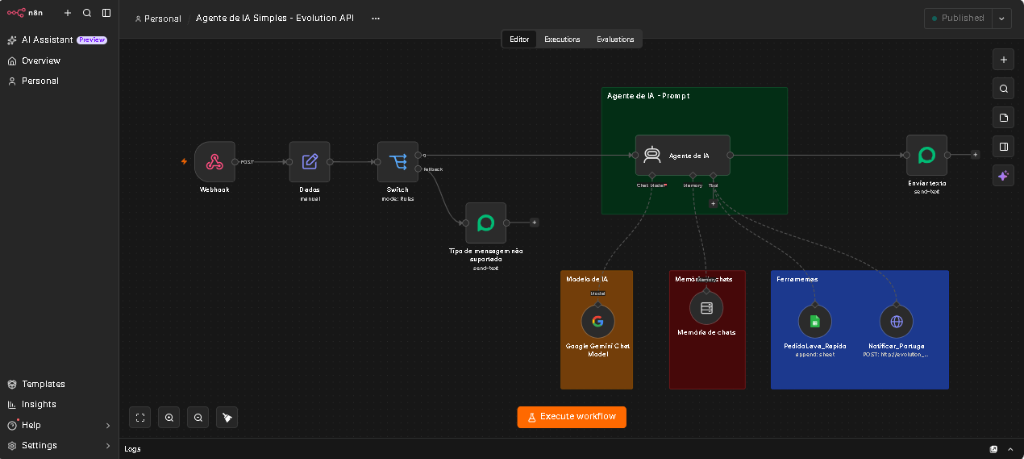
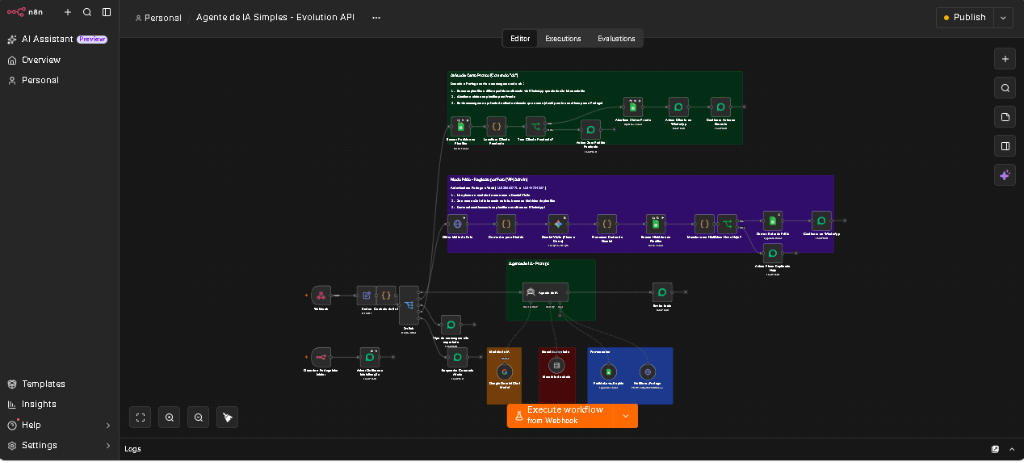
feat(portuguinha): update n8n workflow screenshot and complete production features (Vision OCR, ok command, Admin controls)

diff --git a/src/components/ProjectModal.tsx b/src/components/ProjectModal.tsx
@@ -11,7 +11,7 @@ export const ProjectModal: React.FC<ProjectModalProps> = ({ project, onClose }) 
   const isDentinho = project.id === 'dentinho';
   const isPortuguinha = project.id === 'portuguinha';
   const [activeTab, setActiveTab] = useState<'overview' | 'terminal' | 'dashboard' | 'media' | 'image' | 'workflow'>(
-    isDentinho ? 'terminal' : isPortuguinha ? 'dashboard' : 'overview'
+    isDentinho ? 'terminal' : isPortuguinha ? 'workflow' : 'overview'
   );
 
   // Estados interativos para simular o Terminal do Dentinho
@@ -133,6 +133,18 @@ export const ProjectModal: React.FC<ProjectModalProps> = ({ project, onClose }) 
         ) : isPortuguinha ? (
           <div className="flex flex-wrap items-center gap-2 mb-6 border-b border-white/[0.08] pb-4">
             <button
+              onClick={() => setActiveTab('workflow')}
+              className={`px-4 py-2.5 rounded-xl font-mono text-xs flex items-center gap-2 transition-all ${
+                activeTab === 'workflow'
+                  ? 'bg-signal text-ink-950 font-bold shadow-[0_0_15px_rgba(198,255,61,0.25)]'
+                  : 'bg-white/[0.03] text-paper/70 hover:text-paper border border-white/[0.05]'
+              }`}
+            >
+              <Workflow className="w-4 h-4" />
+              Workflow n8n & IA (4 Fluxos)
+            </button>
+
+            <button
               onClick={() => setActiveTab('dashboard')}
               className={`px-4 py-2.5 rounded-xl font-mono text-xs flex items-center gap-2 transition-all ${
                 activeTab === 'dashboard'
@@ -142,18 +154,6 @@ export const ProjectModal: React.FC<ProjectModalProps> = ({ project, onClose }) 
             >
               <Activity className="w-4 h-4" />
               Painel Evolution API (Conectado)
-            </button>
-
-            <button
-              onClick={() => setActiveTab('workflow')}
-              className={`px-4 py-2.5 rounded-xl font-mono text-xs flex items-center gap-2 transition-all ${
-                activeTab === 'workflow'
-                  ? 'bg-signal text-ink-950 font-bold shadow-[0_0_15px_rgba(198,255,61,0.25)]'
-                  : 'bg-white/[0.03] text-paper/70 hover:text-paper border border-white/[0.05]'
-              }`}
-            >
-              <Workflow className="w-4 h-4" />
-              Workflow n8n & IA (Print Real)
             </button>
 
             <button
@@ -556,76 +556,88 @@ export const ProjectModal: React.FC<ProjectModalProps> = ({ project, onClose }) 
           <div className="space-y-6 animate-in fade-in duration-200">
             {/* Imagem Real do Workflow n8n */}
             <div className="rounded-2xl overflow-hidden border border-white/10 bg-[#06080F] shadow-2xl">
-              <div className="px-4 py-3 bg-ink-950 border-b border-white/[0.06] flex items-center justify-between text-[11px] font-mono text-muted">
+              <div className="px-4 py-3 bg-ink-950 border-b border-white/[0.06] flex flex-wrap items-center justify-between gap-2 text-[11px] font-mono text-muted">
                 <span className="flex items-center gap-2">
                   <Workflow className="w-3.5 h-3.5 text-signal" />
-                  Captura de Tela Real • n8n Editor: Agente de IA Simples - Evolution API
+                  Captura de Tela Real • n8n Editor: Arquitetura Completa (4 Fluxos Integrados)
                 </span>
                 <span className="text-signal flex items-center gap-1.5 font-medium">
                   <span className="w-2 h-2 rounded-full bg-signal animate-pulse" />
-                  Status: Published (Ativo 24/7)
+                  Em Produção • 99% da Operação
                 </span>
               </div>
 
               <div className="p-2 sm:p-4 bg-[#0d1117] flex justify-center">
                 <img
                   src="/portuguinha/n8n_workflow.png"
-                  alt="Workflow no n8n do Portuguinha com Evolution API e IA"
+                  alt="Workflow no n8n do Portuguinha com Visão Computacional, Comando OK, Agente de IA e Controles de Admin"
                   className="w-full rounded-xl object-contain border border-white/5 hover:scale-[1.01] transition-transform duration-300"
                 />
               </div>
 
               <div className="px-4 py-3 bg-ink-950/90 border-t border-white/[0.06] text-xs font-mono text-muted flex flex-wrap items-center justify-between gap-2">
-                <span>Orquestração: n8n Community Node • Google Gemini • Evolution API</span>
-                <span className="text-paper/80 font-semibold">Túnel Seguro via VPN Dedicada</span>
+                <span>Stack: n8n • Gemini 3.1 Flash + Vision OCR • Evolution API • Google Sheets</span>
+                <span className="text-paper/80 font-semibold">Docker Compose (Postgres + Redis)</span>
               </div>
             </div>
 
-            {/* Explicação detalhada dos nós do workflow */}
+            {/* Os 4 Fluxos da Arquitetura (Correspondentes aos blocos da imagem) */}
             <div className="space-y-3">
               <h4 className="font-mono text-xs uppercase tracking-wider text-signal font-semibold flex items-center gap-2">
                 <Sparkles className="w-4 h-4" />
-                Como funciona cada etapa do fluxo no n8n:
+                Os 4 Módulos do Sistema no n8n (Visão Executiva):
               </h4>
 
-              <div className="grid grid-cols-1 sm:grid-cols-2 lg:grid-cols-4 gap-3">
-                <div className="p-4 rounded-xl bg-ink-950/70 border border-white/[0.06] space-y-1.5">
-                  <div className="flex items-center gap-2 text-xs font-mono text-paper font-semibold">
-                    <span className="w-2 h-2 rounded-full bg-rose-500" />
-                    <span>1. Webhook & Switch</span>
+              <div className="grid grid-cols-1 sm:grid-cols-2 gap-3.5">
+                <div className="p-4 rounded-xl bg-ink-950/80 border border-violet-500/25 space-y-1.5">
+                  <div className="flex items-center justify-between gap-2 text-xs font-mono text-paper font-semibold">
+                    <span className="flex items-center gap-2">
+                      <span className="w-2.5 h-2.5 rounded-full bg-violet-400 shadow-[0_0_8px_rgba(167,139,250,0.6)]" />
+                      <span>1. Modo Pátio por Foto (Visão Computacional)</span>
+                    </span>
+                    <span className="text-[10px] px-2 py-0.5 rounded bg-violet-500/15 text-violet-300 border border-violet-500/30">Números Admin</span>
                   </div>
-                  <p className="text-[11px] text-muted leading-relaxed">
-                    Recebe requisições POST instantâneas da Evolution API quando o cliente envia mensagem no WhatsApp, e filtra os tipos de mídia via Switch.
+                  <p className="text-xs text-muted leading-relaxed">
+                    Para registrar carros presenciais em segundos, os administradores enviam apenas uma <strong>foto do veículo + valor</strong> (ex: <code className="text-paper">&quot;60&quot;</code>). O <strong>Gemini Vision</strong> faz OCR da placa (Mercosul/antiga), identifica marca, modelo e porte, deduz o serviço pela tabela de preços, recupera o histórico do cliente na planilha e bloqueia duplicidades no mesmo dia.
                   </p>
                 </div>
 
-                <div className="p-4 rounded-xl bg-ink-950/70 border border-white/[0.06] space-y-1.5">
-                  <div className="flex items-center gap-2 text-xs font-mono text-paper font-semibold">
-                    <span className="w-2 h-2 rounded-full bg-amber-500" />
-                    <span>2. Gemini & Memória</span>
+                <div className="p-4 rounded-xl bg-ink-950/80 border border-emerald-500/25 space-y-1.5">
+                  <div className="flex items-center justify-between gap-2 text-xs font-mono text-paper font-semibold">
+                    <span className="flex items-center gap-2">
+                      <span className="w-2.5 h-2.5 rounded-full bg-emerald-400 shadow-[0_0_8px_rgba(52,211,153,0.6)]" />
+                      <span>2. Aviso de &quot;Carro Pronto&quot; (Comando &quot;ok&quot;)</span>
+                    </span>
+                    <span className="text-[10px] px-2 py-0.5 rounded bg-emerald-500/15 text-emerald-300 border border-emerald-500/30">1 Toque</span>
                   </div>
-                  <p className="text-[11px] text-muted leading-relaxed">
-                    O Agente de IA usa o Google Gemini Chat Model com prompt especializado e nó de Memória de Chats para reter o contexto da conversa.
+                  <p className="text-xs text-muted leading-relaxed">
+                    Quando a lavagem termina, o administrador apenas responde (cita) a mensagem do pedido com <code className="text-emerald-300 font-bold">&quot;ok&quot;</code>. O fluxo identifica a placa na mensagem citada, atualiza o status na planilha para <strong>&quot;Pronto&quot;</strong> e dispara uma mensagem automática no WhatsApp privado do cliente avisando que o veículo já pode ser retirado.
                   </p>
                 </div>
 
-                <div className="p-4 rounded-xl bg-ink-950/70 border border-white/[0.06] space-y-1.5">
-                  <div className="flex items-center gap-2 text-xs font-mono text-paper font-semibold">
-                    <span className="w-2 h-2 rounded-full bg-blue-500" />
-                    <span>3. Ferramentas (Tools)</span>
+                <div className="p-4 rounded-xl bg-ink-950/80 border border-cyan-500/25 space-y-1.5">
+                  <div className="flex items-center justify-between gap-2 text-xs font-mono text-paper font-semibold">
+                    <span className="flex items-center gap-2">
+                      <span className="w-2.5 h-2.5 rounded-full bg-cyan-400 shadow-[0_0_8px_rgba(34,211,238,0.6)]" />
+                      <span>3. Recepcionista IA 24/7 (Atendimento Clientes)</span>
+                    </span>
+                    <span className="text-[10px] px-2 py-0.5 rounded bg-cyan-500/15 text-cyan-300 border border-cyan-500/30">Gemini + Tools</span>
                   </div>
-                  <p className="text-[11px] text-muted leading-relaxed">
-                    Grava o agendamento no Google Sheets (<code className="text-paper">PedidoLava_Rapido</code>) e aciona alerta para a equipe (<code className="text-paper">Notificar_Portuga</code>).
+                  <p className="text-xs text-muted leading-relaxed">
+                    Atende clientes no WhatsApp com <strong>Google Gemini Chat Model</strong> e memória de contexto. Informa preços por porte, coleta dados passo a passo ou de uma só vez, grava na planilha (<code className="text-paper">PedidoLava_Rapido</code>) com status <em>&quot;Em lavagem&quot;</em> e notifica o dono instantaneamente.
                   </p>
                 </div>
 
-                <div className="p-4 rounded-xl bg-ink-950/70 border border-white/[0.06] space-y-1.5">
-                  <div className="flex items-center gap-2 text-xs font-mono text-paper font-semibold">
-                    <span className="w-2 h-2 rounded-full bg-emerald-500" />
-                    <span>4. Envio no WhatsApp</span>
+                <div className="p-4 rounded-xl bg-ink-950/80 border border-amber-500/25 space-y-1.5">
+                  <div className="flex items-center justify-between gap-2 text-xs font-mono text-paper font-semibold">
+                    <span className="flex items-center gap-2">
+                      <span className="w-2.5 h-2.5 rounded-full bg-amber-400 shadow-[0_0_8px_rgba(251,191,36,0.6)]" />
+                      <span>4. Governança Remota & Blindagens</span>
+                    </span>
+                    <span className="text-[10px] px-2 py-0.5 rounded bg-amber-500/15 text-amber-300 border border-amber-500/30">Controle Total</span>
                   </div>
-                  <p className="text-[11px] text-muted leading-relaxed">
-                    O nó final dispara a resposta formatada pelo agente diretamente para a conversa do cliente via Evolution API.
+                  <p className="text-xs text-muted leading-relaxed">
+                    Números de Admin controlam o estado global do bot pelo próprio WhatsApp (<code className="text-amber-300">ativar</code>, <code className="text-amber-300">desativar</code> e <code className="text-amber-300">status</code>) caso precisem pausar a recepcionista. Inclui filtro que descarta mensagens com mais de 5 min em reconexões e alerta automático quando o servidor fica online.
                   </p>
                 </div>
               </div>

diff --git a/src/data/portfolioData.ts b/src/data/portfolioData.ts
@@ -110,41 +110,50 @@ export const projects: Project[] = [
   {
     id: 'portuguinha',
     title: 'Portuguinha Lava-Rápido',
-    tagline: 'Agente de IA no WhatsApp com n8n & Gemini',
+    tagline: 'Automação Completa de Operação · IA, Visão Computacional & n8n',
     category: 'automacao',
-    status: 'Concluído',
+    status: 'Em produção',
     description:
-      'Agente de IA conversacional para WhatsApp construído no n8n com Google Gemini Chat Model e Evolution API, gravando pedidos no Google Sheets e operando 24/7 em servidor cloud via VPN.',
+      'Ecossistema em produção que atende 99% da operação do lava-rápido via WhatsApp: recepcionista IA para clientes, Modo Pátio para administradores (registro presencial por foto com OCR de placa e veículo), aviso automático de "Carro Pronto" e controle remoto do bot.',
     longDescription:
-      'O Portuguinha é um agente inteligente de atendimento e agendamento para lava-rápido. O fluxo completo é orquestrado visualmente no n8n: recebe mensagens do WhatsApp via Evolution API através de webhooks, filtra e valida os tipos de dados via Switch, processa a intenção com o Google Gemini Chat Model retendo o contexto na Memória de Chats, e aciona ferramentas para salvar novos agendamentos no Google Sheets e notificar a equipe em tempo real.',
+      'Desenvolvido para resolver de ponta a ponta a rotina real do Lava-Rápido do Portuga, o sistema unifica 4 fluxos inteligentes no n8n integrados à Evolution API e ao Google Sheets. Além do Agente Recepcionista que atende clientes 24/7, conta com números de Admin para gestão rápida de pátio: basta enviar uma foto do carro com o valor na legenda para a Visão Computacional (Gemini Vision) ler a placa (OCR), identificar modelo e porte, deduzir o serviço pela tabela de preços e recuperar o histórico do cliente na planilha. Quando o serviço termina, responder "ok" na mensagem do pedido atualiza o status para "Pronto" e avisa o cliente no privado. Os administradores também controlam o estado do bot em tempo real pelo WhatsApp (ativar, desativar e status).',
     highlights: [
-      'Workflow visual no n8n publicado e operando em nuvem com túnel VPN seguro',
-      'Agente de IA com Google Gemini Chat Model e memória de contexto',
-      'Integração com Evolution API para envio e recepção de mensagens no WhatsApp',
-      'Ferramenta conectada ao Google Sheets para registro automático de pedidos',
-      'Disparo de alertas e notificações para os responsáveis pelo lava-rápido',
+      'Modo Pátio (Admin): foto do carro + valor aciona OCR da placa, identifica modelo/porte, deduz o serviço e puxa histórico do cliente',
+      'Comando "ok" (Carro Pronto): responder à mensagem do pedido atualiza a planilha e notifica o cliente automaticamente no WhatsApp',
+      'Controle de Estado Remoto: números de Admin ativam, desativam e consultam o status do bot direto na conversa',
+      'Recepcionista IA (Gemini 3.1 Flash Lite) com memória de contexto, coleta em bloco e gravação automática no Google Sheets',
+      'Blindagens de Produção: trava anti-duplicidade diária da mesma placa e descarte de mensagens antigas (> 5 min) pós-reconexão',
+      'Infraestrutura 24/7 em Docker (n8n, Evolution API, PostgreSQL e Redis) com mais de 1.160 mensagens reais processadas',
     ],
-    techStack: ['n8n', 'Google Gemini', 'Evolution API (WhatsApp)', 'Google Sheets', 'Webhooks', 'VPN Dedicada'],
+    techStack: [
+      'n8n',
+      'Gemini Vision (OCR)',
+      'Gemini 3.1 Flash',
+      'Evolution API',
+      'Google Sheets CRM',
+      'Docker & Redis',
+      'JavaScript',
+    ],
     facts: [
-      { label: 'Orquestrador', value: 'n8n Workflow' },
-      { label: 'Modelo de IA', value: 'Gemini Chat Model' },
-      { label: 'Instância WhatsApp', value: 'Evolution API (Connected)' },
-      { label: 'Mensagens Processadas', value: '1.167 mensagens' },
+      { label: 'Cobertura Operacional', value: '99% da Operação Real' },
+      { label: 'IA & Visão Computacional', value: 'Gemini Flash + Vision OCR' },
+      { label: 'Modo Pátio (Admin)', value: 'Foto + Valor → Registro' },
+      { label: 'Mensagens Processadas', value: '1.167+ mensagens' },
       { label: 'Contatos & Chats', value: '321 contatos / 101 chats' },
-      { label: 'Integração', value: 'Google Sheets (Tools)' },
+      { label: 'Persistência & CRM', value: 'Google Sheets em Tempo Real' },
     ],
     media: [
       {
-        type: 'dashboard',
-        title: 'Painel da Evolution API (Instância Conectada)',
-        description: 'Painel de gerenciamento da Evolution API em tempo real mostrando a instância lavarapido-bot conectada, com mais de 1.100 mensagens processadas e 320+ contatos (dados anonimizados).',
-        imageUrl: '/portuguinha/evolution_dashboard.png'
+        type: 'image',
+        title: 'Arquitetura Completa no n8n (4 Fluxos Integrados)',
+        description: 'Workflow em produção no n8n unificando: (1) Aviso de Carro Pronto via comando "ok", (2) Modo Pátio por Foto com Gemini Vision OCR para números Admin, (3) Agente Recepcionista IA com Memória e Tools, e (4) Controle de Estado Remoto (ativar/desativar/status).',
+        imageUrl: '/portuguinha/n8n_workflow.png'
       },
       {
-        type: 'image',
-        title: 'Workflow do n8n com IA & Evolution API',
-        description: 'Fluxo orquestrado no n8n conectando Webhook da Evolution API, Switch de regras, Agente de IA com Google Gemini, Memória de chats e ferramentas para registro de pedidos e notificações automáticas.',
-        imageUrl: '/portuguinha/n8n_workflow.png'
+        type: 'dashboard',
+        title: 'Painel da Evolution API (Instância Conectada)',
+        description: 'Painel de gerenciamento da Evolution API em tempo real mostrando a instância lavarapido-bot conectada, com mais de 1.160 mensagens processadas e 320+ contatos (dados anonimizados).',
+        imageUrl: '/portuguinha/evolution_dashboard.png'
       }
     ],
     githubUrl: '',
@@ -257,12 +266,13 @@ export const skillGroups: SkillGroup[] = [
   },
   {
     stage: '03',
-    title: 'IA Generativa & Chatbots',
-    description: 'Colocando modelos de linguagem de ponta em produção.',
+    title: 'IA Generativa, Visão & Chatbots',
+    description: 'Colocando modelos de linguagem e visão computacional em produção.',
     skills: [
-      { name: 'Google Gemini 3.8 Flash (API & SDK)', usedIn: ['dentinho'] },
-      { name: 'Engenharia de Prompt & Context Window', usedIn: ['dentinho'] },
-      { name: 'Orquestração de Intenções em Tempo Real', usedIn: ['dentinho'] },
+      { name: 'Google Gemini (API, SDK & Chat Models)', usedIn: ['dentinho', 'portuguinha'] },
+      { name: 'Visão Computacional & OCR de Placas (Gemini Vision)', usedIn: ['portuguinha'] },
+      { name: 'Engenharia de Prompt & Context Window', usedIn: ['dentinho', 'portuguinha'] },
+      { name: 'Orquestração de Intenções & Governança Remota', usedIn: ['dentinho', 'portuguinha'] },
       { name: 'Terminal de Monitoramento de IA', usedIn: ['dentinho'] },
     ],
   },
@@ -271,8 +281,9 @@ export const skillGroups: SkillGroup[] = [
     title: 'Automação, Cloud & Integrações',
     description: 'Pipelines autônomos, esteiras de dados e hospedagem.',
     skills: [
+      { name: 'Workflows, Webhooks & Tools no n8n', usedIn: ['portuguinha'] },
+      { name: 'Docker Compose (Evolution API, Postgres & Redis)', usedIn: ['portuguinha'] },
       { name: 'Servidor Cloud com VPN Dedicada', usedIn: ['portuguinha'] },
-      { name: 'Workflows & Webhooks no n8n', usedIn: ['portuguinha'] },
       { name: 'Automação de Mídias & Afiliados', usedIn: ['dsky'] },
       { name: 'APIs RESTful (Python & FastAPI)', usedIn: ['dentinho'] },
     ],

diff --git a/public/curriculo.html b/public/curriculo.html
@@ -594,13 +594,13 @@
           </div>
 
           <div class="skills-category">
-            <div class="skills-cat-title">Inteligência Artificial</div>
-            <div class="skills-cat-desc">API do Gemini (Google), criação de instruções para bots e contexto de conversa.</div>
+            <div class="skills-cat-title">Inteligência Artificial & Visão</div>
+            <div class="skills-cat-desc">API do Gemini (Chat & Vision OCR para placas/veículos), engenharia de prompt e memória de contexto.</div>
           </div>
 
           <div class="skills-category">
-            <div class="skills-cat-title">Automação & Ferramentas</div>
-            <div class="skills-cat-desc">n8n, Webhooks, APIs em FastAPI, Git/GitHub e servidores em nuvem.</div>
+            <div class="skills-cat-title">Automação & Infraestrutura</div>
+            <div class="skills-cat-desc">n8n, Evolution API, Docker Compose (Postgres/Redis), FastAPI, Git/GitHub e nuvem.</div>
           </div>
 
           <div class="skills-category">
@@ -636,7 +636,7 @@
 
         <!-- Resumo Pessoal / Objetivo -->
         <div class="summary-box">
-          Estudo Ciência da Computação no Mackenzie e gosto de aprender construindo projetos práticos. Desenvolvi bots com IA para WhatsApp, automações que rodam 24h na nuvem e projetos em Python e linguagem C na faculdade. Busco uma oportunidade de <strong>estágio em Dados ou Inteligência Artificial</strong> para aprender com a equipe, colocar a mão na massa no dia a dia e evoluir profissionalmente.
+          Estudo Ciência da Computação no Mackenzie e gosto de aprender construindo projetos práticos. Desenvolvi bots com IA e Visão Computacional para WhatsApp, automações que rodam 24h em Docker/nuvem e projetos em Python e linguagem C na faculdade. Busco uma oportunidade de <strong>estágio em Dados ou Inteligência Artificial</strong> para aprender com a equipe, colocar a mão na massa no dia a dia e evoluir profissionalmente.
         </div>
 
         <!-- Projetos Práticos -->
@@ -659,13 +659,13 @@
           <!-- Portuguinha -->
           <article class="project-card">
             <div class="project-header">
-              <span class="project-name">Portuguinha Lava-Rápido — Atendimento Automático</span>
-              <span class="project-stack">n8n · Gemini · Evolution API · Planilhas</span>
+              <span class="project-name">Portuguinha Lava-Rápido — Operação & Visão Computacional</span>
+              <span class="project-stack">n8n · Gemini Vision (OCR) · Evolution API · Docker</span>
             </div>
             <ul class="project-bullets">
-              <li>Fluxo no n8n rodando direto em servidor na nuvem 24 horas por dia para atender clientes no WhatsApp.</li>
-              <li>Já atendeu mais de 320 contatos e processou mais de 1.100 mensagens reais.</li>
-              <li>Salva novos agendamentos automaticamente no Google Sheets e avisa a equipe no mesmo instante.</li>
+              <li>Atende 99% da operação real (+1.160 mensagens e +320 contatos): recepcionista IA 24/7 integrada ao Google Sheets.</li>
+              <li><strong>Modo Pátio (Admin):</strong> envio de foto do veículo + valor aciona OCR da placa, identifica modelo/porte, deduz o serviço e puxa histórico do cliente.</li>
+              <li><strong>Governança no WhatsApp:</strong> responder <code>"ok"</code> no pedido avisa o cliente que o carro está pronto; comandos de Admin (<code>ativar</code>/<code>desativar</code>/<code>status</code>) controlam o estado do bot em tempo real.</li>
             </ul>
           </article>
 
